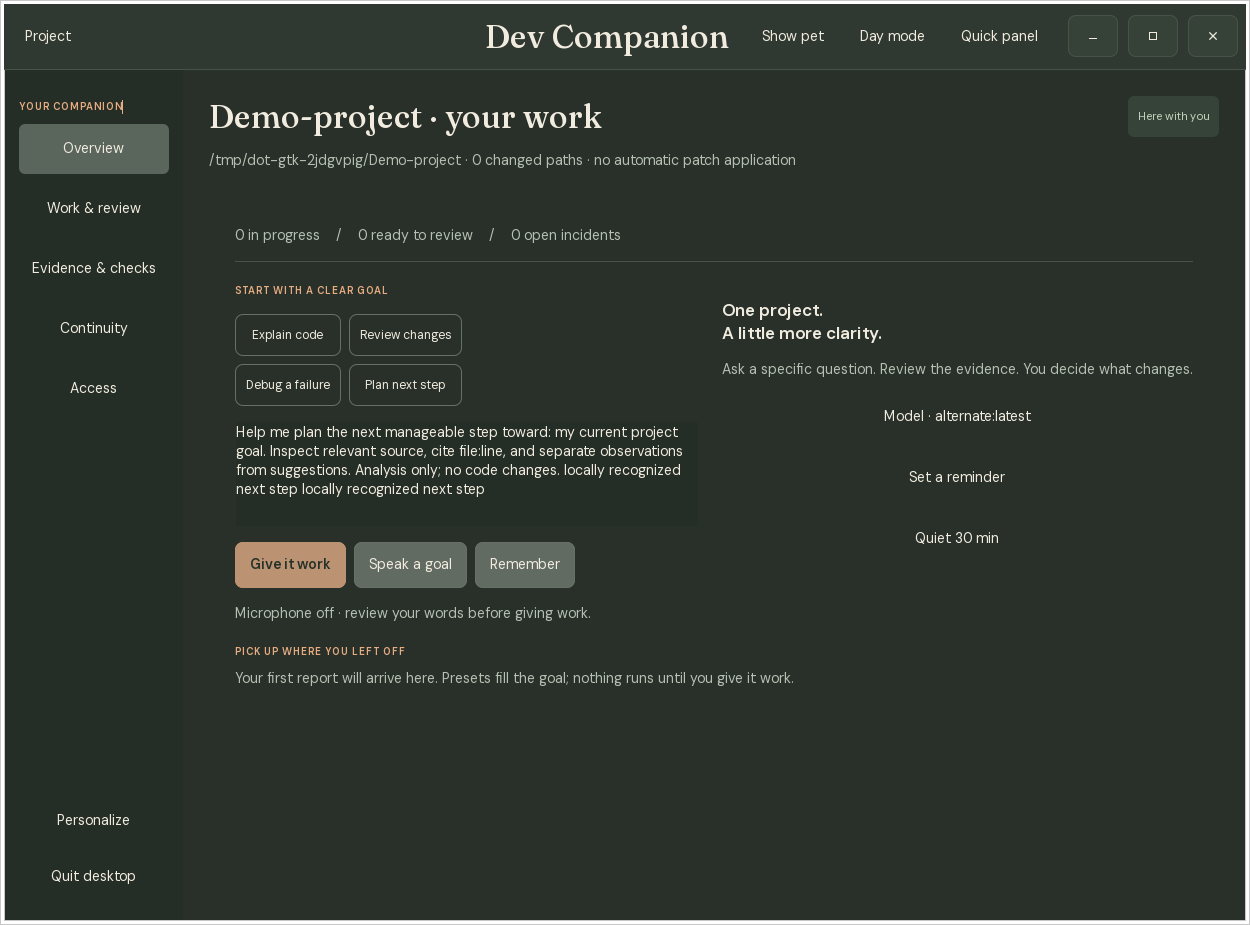
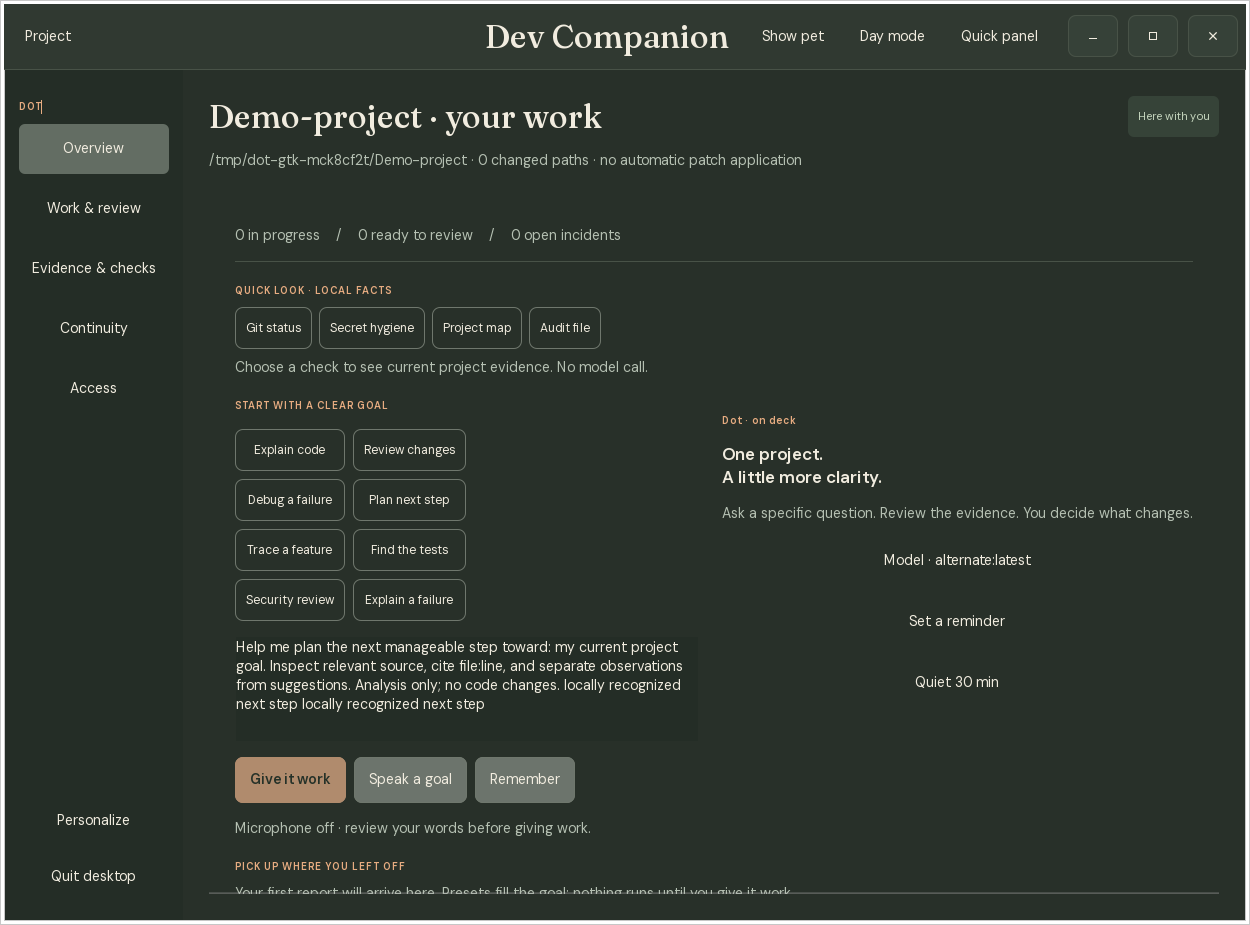
Present 0.8.2 quiet companion preview

diff --git a/guide.html b/guide.html
@@ -4,15 +4,15 @@
 <meta name="description" content="Set up the Linux developer workflow preview: project presence, real error evidence, reviewed corrections, optional editor diagnostics and local voice.">
 <link rel="icon" href="./favicon.svg"><link rel="stylesheet" href="./fonts.css"><link rel="stylesheet" href="./style.css"></head>
 <body><a class="skip" href="#main">Skip to content</a><header class="nav wrap"><a class="brand" href="./">Dev Companion</a><nav aria-label="Main navigation"><a class="nav-cta" href="./">Back to the project ↗</a></nav></header>
-<main id="main" class="guide wrap"><p class="eyebrow">PREVIEW 0.8.1 · WORKFLOW GUIDE</p>
+<main id="main" class="guide wrap"><p class="eyebrow">PREVIEW 0.8.2 · WORKFLOW GUIDE</p>
 <h1>Your local companion,<br>close to the work.</h1>
 <p>An early Linux x86_64 workflow preview for existing Git projects. Each project, terminal session and editor workspace requires explicit enablement. A local model is needed for conversation and proposed corrections; the work desk and reminders work without inference. macOS validation is pending.</p>
 <h2 id="install">1. Verify and install the CLI</h2>
-<p>Download the archive and SHA256SUMS from the <a href="https://github.com/ashuujha/devcompanion-launch/releases/tag/v0.8.1">v0.8.1 release page</a>, then verify the downloaded archive and install:</p>
+<p>Download the archive and SHA256SUMS from the <a href="https://github.com/ashuujha/devcompanion-launch/releases/tag/v0.8.2">v0.8.2 release page</a>, then verify the downloaded archive and install:</p>
 <pre><code>sha256sum --check --ignore-missing SHA256SUMS
-tar -xzf devcompanion-0.8.1-linux-x86_64.tar.gz
+tar -xzf devcompanion-0.8.2-linux-x86_64.tar.gz
 mkdir -p "$HOME/.local/bin"
-install -m 755 devcompanion-0.8.1/devcompanion "$HOME/.local/bin/devcompanion"
+install -m 755 devcompanion-0.8.2/devcompanion "$HOME/.local/bin/devcompanion"
 export PATH="$HOME/.local/bin:$PATH"
 ln -s devcompanion "$HOME/.local/bin/dot"
 dot --version</code></pre>
@@ -20,10 +20,10 @@ dot --version</code></pre>
 <pre><code>dot update --check
 dot update
 # A previously downloaded official archive can be used offline:
-dot update --from-archive /path/devcompanion-0.8.1-linux-x86_64.tar.gz --checksum /path/SHA256SUMS</code></pre>
+dot update --from-archive /path/devcompanion-0.8.2-linux-x86_64.tar.gz --checksum /path/SHA256SUMS</code></pre>
 <p>The explicit updater uses GitHub HTTPS, verifies the published checksum and archive layout, and replaces the installed binary atomically. It preserves memory, models and the alias, retains one previous executable and restarts a matching managed presence unit. Open chats finish with their original binary; quit and reopen to load the update. Checksums are consistency checks, not independent release signatures.</p>
 <p>Version 0.4 and earlier lack this command. After verifying the 0.6 archive, bootstrap once:</p>
-<pre><code>install -m 755 devcompanion-0.8.1/devcompanion "$HOME/.local/bin/devcompanion.new"
+<pre><code>install -m 755 devcompanion-0.8.2/devcompanion "$HOME/.local/bin/devcompanion.new"
 mv "$HOME/.local/bin/devcompanion.new" "$HOME/.local/bin/devcompanion"
 dot --version
 # Only if login presence is installed:
@@ -58,12 +58,13 @@ dot desktop
 # Optional launcher and graphical login presence:
 dot desktop install --login</code></pre>
 <p>The native Linux desktop uses system Python 3, PyGObject, GTK 3 and an SVG loader. On Ubuntu/Debian, missing components can be installed with <code>sudo apt install python3-gi gir1.2-gtk-3.0 librsvg2-common</code>. The CLI works without the optional desktop dependencies.</p>
-<p>Click the dot to open the quick panel; drag to move; right-click for quiet, work desk or Quit desktop. Version 0.8.1 prefers X11/XWayland before loading GTK when available, preserving an explicit display preference. <code>dot desktop check</code> reports the selected backend. GNOME/XWayland honored keep-above in the maker test; placement and keep-above vary by window manager. The Project button selects a Git workspace and asks for first-use consent. Every goal, incident, task, patch and check shares the existing local ledger.</p>
-<p>The quick panel and work desk share a goal draft. Explain code, Review changes, Debug a failure and Plan next step fill that draft without submitting it. The model selector shows downloaded local completion models and saves the choice for future work. Personalize offers pixel or soft artwork, color, name, response style and 16 original characters. Hide pet removes character artwork from the display while keeping project work accessible. The default off-white/black theme has a saved night mode; switch with the work desk header, quick panel, dot menu or Ctrl+Shift+N in a focused companion window. A visible pet smiles and moves briefly on hover, then rests when the pointer leaves. GTK's reduced-animation setting disables the motion timer.</p>
+<p>Click the dot to open the quick panel; drag to move; right-click for quiet, work desk or Quit desktop. Version 0.8.2 prefers X11/XWayland before loading GTK when available, preserving an explicit display preference. <code>dot desktop check</code> reports the selected backend. GNOME/XWayland honored keep-above in the maker test; placement and keep-above vary by window manager. The Project button selects a Git workspace and asks for first-use consent. Every goal, incident, task, patch and check shares the existing local ledger.</p>
+<p>The quick panel and work desk share a goal draft. Eight starters cover source explanation, change review, debugging, feature tracing, relevant tests, security review and planning; selecting one fills the draft without submitting work. Git status, Secret hygiene, Project map and Audit file are explicit local quick looks. The hygiene action uses the installed local detector and shows redacted known-pattern findings. The project map offers bounded file/line navigation leads, not a claim of full understanding. Audit file previews a bounded status inventory and saves only to a new filename you choose; it is not a full code or security audit.</p>
+<p>The model selector shows downloaded local completion models and saves the choice for future work. Personalize offers pixel or soft artwork, color, name, response style, 16 original characters, a saved 72–176 px size and Off/Gentle/Playful motion. Hide pet removes the character from display while keeping work accessible. The off-white/black theme has a saved night mode; switch with the desk header, quick panel, dot menu or Ctrl+Shift+N in a focused window. Hover makes a visible pet smile and follow nearby pointer movement. Gentle mode shows a sleepy expression after four idle minutes. Playful adds rare brief edge strolls only when the panel and desk are closed. GTK's reduced-animation setting suppresses motion; pet activity never starts a model request.</p>
 <p>Give companion work starts a persistent investigation. Close the panel while it works; open returned work to inspect original errors, recorded model interpretation, actual source ranges and their freshness, and the diff. Applying the current displayed patch and running a named check are separate approvals. The check dialog shows the exact argument array. Cancel, retry, revision and guarded rollback remain available. Continuity shows saved outcomes without generating a new recap. A stopped worker is shown as needing attention.</p>
 <p>After local voice setup, Speak a goal records one visible turn. Hold Ctrl+Alt+Space in the focused companion window and release it to finish, or press Esc to cancel. Personalize can request a session-only global shortcut through the desktop permission dialog. Recognized words join the goal draft for review; they never approve actions. Read report aloud uses local speech. Physical microphone and shortcut comfort still need hands-on trials.</p>
 <p><code>dot desktop install</code> adds just the application launcher; <code>--login</code> also adds a login entry that starts only the dot, keeping the panel closed. Click the dot when needed. <code>dot desktop uninstall</code> removes only managed entries and retains data. Closing the desktop does not cancel accepted tasks. Quiet suppresses interruptions while work can continue. The separate presence service and permitted adapters provide background events.</p>
-<p>Source analysis requires actual reads; explicit related-test requests require a range covering the selected test anchor. Source navigation is bounded to supported project text, not complete repository understanding. Large sources up to 256 KiB can be read; edits retain the small-file scope. Explicit analysis-only work rejects patch proposals. The real Offline-GPT evaluation read the actual resolver and related tests, but its local-model explanation still misstated test coverage and lacked usable citations. That result is marked unverified. Larger-project correctness remains unproven.</p>
+<p>Source analysis requires actual reads; explicit related-test requests require a range covering the selected test anchor. Source navigation is bounded to supported project text, not complete repository understanding. Large sources up to 256 KiB can be read; edits retain the small-file scope. Explicit analysis-only work rejects patch proposals. On the pinned Offline-GPT checkout, the newer project map placed the automation runner and its test among the first two of 16 candidates after an earlier map missed both. The retained local-model explanation still misstated test coverage and lacked usable citations; that result remains unverified. Larger-project correctness remains unproven.</p>
 <p>The static candidate and bundled GTK interface passed a network-isolated maker journey after setup, including real local-model source analysis; external connectivity was unavailable. The graphical patch/check journey used a controlled model. These are technical evaluations, not independent daily-use trials.</p>
 <h2 id="proactive">Background investigation, with a separate opt-in</h2>
 <pre><code>dot proactive enable
@@ -114,7 +115,7 @@ dot route --category explain</code></pre>
 <p>Inspect each actual response before rating. Comparisons record total time, time to first text and actual prompt/output counts when Ollama provides them. Routing suggests the fastest latest response rated useful for the latest identical task, current code/context/settings and unchanged model digest. Add <code>--apply</code> to save the suggestion. It does not infer quality for other tasks or switch automatically. Loading, order and caches affect timings; these are local observations, not standardized benchmarks.</p>
 <p>CPU/auto, context, reply/task token caps, model retention and proactive cooldown are explicit controls. Lower limits can reduce context coverage and answer quality. The default requests ten-minute model retention; Ollama may unload under pressure. <code>models --task TEXT</code> gives model-generated advice; measured <code>route</code> has a separate evidence requirement.</p>
 <h2 id="editor">7. Optional VS Code diagnostics</h2>
-<p>Download <a href="https://github.com/ashuujha/devcompanion-launch/releases/download/v0.8.1/dot-developer-companion-0.1.0.vsix">dot-developer-companion-0.1.0.vsix</a>, then run <code>code --install-extension dot-developer-companion-0.1.0.vsix</code>. Open a trusted workspace in an initialized Git project and choose <strong>Dot: Enable Editor Diagnostics for Workspace</strong> from the VS Code command palette. Disable it there when finished. The extension sends bounded diagnostic messages, file paths, lines, severity and saved state; it sends no source buffers. VS Code must be open to provide diagnostics. A diagnostic can clear without a compiler or named check passing.</p>
+<p>Download <a href="https://github.com/ashuujha/devcompanion-launch/releases/download/v0.8.2/dot-developer-companion-0.1.0.vsix">dot-developer-companion-0.1.0.vsix</a>, then run <code>code --install-extension dot-developer-companion-0.1.0.vsix</code>. Open a trusted workspace in an initialized Git project and choose <strong>Dot: Enable Editor Diagnostics for Workspace</strong> from the VS Code command palette. Disable it there when finished. The extension sends bounded diagnostic messages, file paths, lines, severity and saved state; it sends no source buffers. VS Code must be open to provide diagnostics. A diagnostic can clear without a compiler or named check passing.</p>
 <h2 id="voice">8. Optional local voice</h2>
 <p><code>dot voice setup</code> installs local English Whisper/Piper once. <code>dot voice status</code> reports readiness. <code>/voice</code> or <code>dot voice chat</code> opens voice mode: the first turn records, then <strong>Enter</strong> records each follow-up. Enter also finishes a recording early. <strong>q + Enter</strong>, “exit voice”, “stop listening”, or <strong>Ctrl+C</strong> ends the session. <code>/voice once</code> or <code>dot voice ask --once</code> records one turn; <code>--audio question.wav</code> uses a file.</p>
 <p><code>dot voice chat --continuous</code> or <code>/voice continuous</code> listens again after replies until exit. The microphone pauses during transcription, reasoning and playback. A simple energy gate skips silence; noisy rooms still need care. It is turn-based speech, with no wake word or interruption during playback. Windows default to 12 seconds (maximum 30); recording stays off outside explicitly opened voice mode. Tests cover two turns, silence and microphone-child cancellation using controlled audio tools. Physical microphone selection, room noise and playback comfort still need hands-on validation.</p>

diff --git a/index.html b/index.html
@@ -54,9 +54,18 @@
     </div>
   </div>
 </section>
-<section class="desktop-preview wrap" aria-labelledby="desktop-title"><div class="section-intro"><p class="eyebrow">A PLACE FOR THE WORK</p><h2 id="desktop-title">A little presence.<br>Work you can inspect.</h2><p>Open the dot, choose a goal preset or speak one, then review the actual sources, proposed changes and separately approved checks. Personalize 16 original characters, select a downloaded local model, or hide the pet. The off-white desk has a saved night theme, and each visible pet smiles and moves briefly on hover. The desktop and terminal share one local ledger.</p></div><div class="desktop-shots"><figure><img src="./desktop-panel.png" alt="Native companion quick panel with selected project, returned work, goal composer and local microphone control" loading="lazy"><figcaption>Your project's quick panel.</figcaption></figure><figure><img src="./desktop-work.png" alt="Off-white native work desk showing a recorded report, inspected source ranges, their freshness and a proposed diff" loading="lazy"><figcaption>Review the evidence and diff before approving.</figcaption></figure></div><p class="fine">Actual v0.8.1 GTK interface in a disposable project with a controlled model. <a href="./desktop-night.png">See the night theme ↗</a> These screens illustrate the review flow, not model quality. <a href="./guide.html#desktop">Desktop setup and limits ↗</a></p></section>
+<section class="desktop-preview wrap" aria-labelledby="desktop-title">
+  <div class="section-intro"><p class="eyebrow">A PLACE FOR THE WORK</p><h2 id="desktop-title">A little presence.<br>Work you can inspect.</h2><p>Choose a goal, see current project facts, and review the source and checks behind any proposed change. The quick panel, work desk and terminal use one local ledger.</p></div>
+  <div class="desktop-features">
+    <article><span>01 · PERSONAL</span><h3>Your small companion</h3><p>Pick from 16 original characters. Name it, resize it, choose pixel or soft art, or hide it altogether.</p></article>
+    <article><span>02 · AT YOUR PACE</span><h3>Quiet little moments</h3><p>It smiles and follows the cursor nearby. Gentle mode rests after idle time; optional Playful mode takes rare short strolls. Motion can be off.</p></article>
+    <article><span>03 · USEFUL FIRST</span><h3>One-click project facts</h3><p>Check Git status, run redacted secret hygiene, find relevant source paths, or preview a Markdown project audit. These actions do not ask the model.</p></article>
+  </div>
+  <div class="desktop-shots"><figure><img src="./desktop-panel.png" alt="Native companion quick panel with selected project, returned work and goal composer" loading="lazy"><figcaption>Your project's quick panel.</figcaption></figure><figure><img src="./desktop-work.png" alt="Off-white native work desk showing a report, inspected source ranges and a proposed diff" loading="lazy"><figcaption>Review evidence before approving.</figcaption></figure><figure class="wide"><img src="./desktop-quick-look.png" alt="Native work desk showing Git status, project facts, eight goal drafts and a pixel cat" loading="lazy"><figcaption>Quick local facts and a companion that stays out of your way.</figcaption></figure></div>
+  <p class="fine">Actual v0.8.2 GTK interface in a disposable project with a controlled model. <a href="./desktop-night.png">See the night theme ↗</a> These screens illustrate the workflow, not model quality. <a href="./guide.html#desktop">Desktop setup and limits ↗</a></p>
+</section>
 <section id="local" class="local-section" aria-labelledby="local-title"><div class="wrap local-grid"><div><p class="eyebrow">ON YOUR MACHINE</p><h2 id="local-title">Your project.<br>Your model.<br>Your memory.</h2><p>Download the runtime and model once. Conversation, memory and project awareness then work offline.</p><a class="text-link" href="./guide.html#privacy">See the data boundaries <span aria-hidden="true">↗</span></a></div><div class="local-facts"><article><span>01</span><h3>Local inference</h3><p>A downloaded Ollama model, accessed through loopback HTTP. No silent cloud fallback.</p></article><article><span>02</span><h3>Scoped awareness + publishing guard</h3><p>Initialize each Git project; enable background presence separately. Terminal capture and editor diagnostics each require their own consent. Enable local commit/push checks with <code>dot guard enable</code>.</p></article><article><span>03</span><h3>Persistent local memory</h3><p>A SQLite work desk on your machine. Inspect incidents, reminders and decisions; export a project or back up your private database.</p></article><article><span>04</span><h3>Free preview</h3><p>No subscription or usage collection. The application source is currently private; this is an early binary release.</p></article></div></div></section>
-<section id="start" class="start wrap" aria-labelledby="start-title"><div class="section-intro"><p class="eyebrow">FIRST SESSION</p><h2 id="start-title">Give your work a companion.</h2><p>This early workflow preview supports Linux x86_64. A downloaded local model is needed for conversation and proposed corrections; incident recording and reminders work without inference.</p></div><div class="start-grid"><div class="download-card"><span class="release-label">PREVIEW 0.8.1</span><h3>Download for Linux</h3><p>A local developer companion with a native Linux desktop and CLI. GTK/Python enable the optional desktop; Ollama supplies downloaded local models. The VS Code adapter is separate.</p><a class="button" href="https://github.com/ashuujha/devcompanion-launch/releases/download/v0.8.1/devcompanion-0.8.1-linux-x86_64.tar.gz">Download preview <span aria-hidden="true">↓</span></a><a class="text-link small-link" href="https://github.com/ashuujha/devcompanion-launch/releases/tag/v0.8.1">Checksums & release notes ↗</a><p class="fine">Read <a href="./guide.html">setup and known limits</a> before your first session. <a href="./demo.txt">See a recorded workflow.</a></p></div><div class="setup-card"><div class="setup-title"><span>AFTER CLI & MODEL SETUP</span><button class="copy" data-copy="setup" aria-label="Copy first session commands">Copy commands</button></div><p>Complete the <a href="./guide.html">CLI and local model setup</a>, then open a terminal in the existing Git project you want help with:</p><pre id="setup"><code>dot setup --check
+<section id="start" class="start wrap" aria-labelledby="start-title"><div class="section-intro"><p class="eyebrow">FIRST SESSION</p><h2 id="start-title">Give your work a companion.</h2><p>This early workflow preview supports Linux x86_64. A downloaded local model is needed for conversation and proposed corrections; incident recording and reminders work without inference.</p></div><div class="start-grid"><div class="download-card"><span class="release-label">PREVIEW 0.8.2</span><h3>Download for Linux</h3><p>A local developer companion with a native Linux desktop and CLI. GTK/Python enable the optional desktop; Ollama supplies downloaded local models. The VS Code adapter is separate.</p><a class="button" href="https://github.com/ashuujha/devcompanion-launch/releases/download/v0.8.2/devcompanion-0.8.2-linux-x86_64.tar.gz">Download preview <span aria-hidden="true">↓</span></a><a class="text-link small-link" href="https://github.com/ashuujha/devcompanion-launch/releases/tag/v0.8.2">Checksums & release notes ↗</a><p class="fine">Read <a href="./guide.html">setup and known limits</a> before your first session. <a href="./demo.txt">See a recorded workflow.</a></p></div><div class="setup-card"><div class="setup-title"><span>AFTER CLI & MODEL SETUP</span><button class="copy" data-copy="setup" aria-label="Copy first session commands">Copy commands</button></div><p>Complete the <a href="./guide.html">CLI and local model setup</a>, then open a terminal in the existing Git project you want help with:</p><pre id="setup"><code>dot setup --check
 dot setup --yes --presence --proactive --goal "Finish the current bug fix"
 dot desktop
 # For terminal work you want captured, use a separate session:

diff --git a/style.css b/style.css
@@ -7,3 +7,4 @@
 .terminal-identity{display:flex;align-items:center;gap:18px;margin-bottom:18px}.terminal-identity p{margin:0}.terminal-pet{flex-shrink:0;image-rendering:pixelated;object-fit:contain}.pet-preview{margin:24px 0}.pet-preview summary{cursor:pointer;font-weight:600}.pet-preview img{display:block;max-width:100%;height:auto;margin-top:16px;border-radius:6px}
 
 .desktop-preview{padding-top:80px;padding-bottom:80px}.desktop-shots{display:grid;grid-template-columns:minmax(0,.65fr) minmax(0,1fr);gap:24px;align-items:start}.desktop-shots figure{margin:0}.desktop-shots img{display:block;width:100%;height:auto;border:1px solid #d8d3cb;border-radius:14px}.desktop-shots figcaption{padding-top:12px;color:#555f58;font-size:14px}@media(max-width:720px){.desktop-shots{grid-template-columns:1fr}.desktop-preview{padding-top:48px;padding-bottom:48px}}
+.desktop-features{display:grid;grid-template-columns:repeat(3,minmax(0,1fr));gap:15px;margin:32px 0 30px}.desktop-features article{background:var(--white);border:1px solid var(--line);border-radius:12px;padding:22px}.desktop-features span{font-size:9px;letter-spacing:1.2px;color:var(--accent);font-weight:700}.desktop-features h3{font-size:19px;font-weight:500;letter-spacing:-.6px;margin:14px 0 9px}.desktop-features p{color:var(--muted);font-size:12px;line-height:1.7;margin:0}.desktop-shots .wide{grid-column:1/-1}.desktop-shots .wide img{max-width:970px;margin:auto}.desktop-shots .wide figcaption{text-align:center}.terminal-pet{transition:transform .2s ease}.terminal-pet:hover{transform:translateY(-5px) rotate(-4deg)}@media(max-width:760px){.desktop-features{grid-template-columns:1fr;gap:10px}.desktop-shots .wide{grid-column:auto}}@media(prefers-reduced-motion:reduce){.terminal-pet{transition:none}.terminal-pet:hover{transform:none}}

diff --git a/README.md b/README.md
@@ -8,11 +8,11 @@ can request a small correction for review. Reminders and
 focus breaks remain available between conversations. The pet and companion name
 are optional ways to make it feel familiar; the same local work ledger carries the context.
 
-**v0.8.1 workflow preview for Linux x86_64.** This repository contains public
+**v0.8.2 workflow preview for Linux x86_64.** This repository contains public
 launch assets, feedback templates and binary releases. The application source
 is currently private.
 
-- [Download, checksums and release notes](https://github.com/ashuujha/devcompanion-launch/releases/tag/v0.8.1)
+- [Download, checksums and release notes](https://github.com/ashuujha/devcompanion-launch/releases/tag/v0.8.2)
 - [Setup, update and privacy guide](https://ashuujha.github.io/devcompanion-launch/guide.html)
 - [Recorded v0.5 local-model workflow](https://ashuujha.github.io/devcompanion-launch/demo.txt)
 - [Join the first developer trials](https://github.com/ashuujha/devcompanion-launch/issues/1)
@@ -25,11 +25,14 @@ desk share the existing engine. Give it project work, dismiss the panel, then re
 the actual source ranges, model report and proposed diff. Application and named
 checks require separate approvals. The same goals, task IDs and outcomes remain
 available in the CLI. Source-analysis requests need real reads; explicit
-analysis-only tasks reject edits. The desk now has an off-white/black day theme
-and a saved forest night theme. It also has original pixel companions, starter
-prompts, a local model picker, a hide control and an optional push-to-talk
-shortcut. The selected pet smiles and moves briefly on hover. Larger-project
-model accuracy remains unproven.
+analysis-only tasks reject edits. The desk has an off-white/black day theme and
+a saved forest night theme. Eight goal drafts and four local quick looks expose
+Git status, redacted secret hygiene, project paths and a previewable audit file.
+The original pixel/soft companions can be named, resized or hidden. Gentle mode
+rests after idle time; optional Playful mode adds rare short strolls. Hover
+smiles and follows nearby pointer movement. Motion can be off. The downloaded
+local model picker and optional push-to-talk shortcut remain available.
+Larger-project model accuracy remains unproven.
 
 ```sh
 # After binary/local-model setup, in your chosen Git project:
@@ -48,19 +51,22 @@ an optional session shortcut through the desktop permission dialog. Hide pet
 removes its visible character and the panel can show it again. The model picker
 lists downloaded local completion models; switching does not rewrite existing
 tasks. Switch day/night with the desk header button or focused Ctrl+Shift+N.
+Resize the pet in Personalize, with Ctrl+scroll over it, or from the dot menu.
 Physical voice and global shortcut comfort still need people to try them.
 
 ![Native companion quick panel in a controlled-model fixture](desktop-panel.png)
 
-The picture is an actual v0.8.1 GTK interface with a controlled model; it demonstrates
+The picture is an actual v0.8.2 GTK interface with a controlled model; it demonstrates
 the review workflow, not inference quality. A real local-model evaluation on the
 larger Offline-GPT repository retained an incorrect test interpretation and
-ended with an explicitly unverified result. Independent everyday usefulness
+ended with an explicitly unverified result. Project navigation now finds that
+runner and its test in the large checkout, while correct model interpretation
+remains open. Independent everyday usefulness
 and retention remain unmeasured.
 
 ## Start with a real project
 
-Verify and install the [Linux archive](https://github.com/ashuujha/devcompanion-launch/releases/download/v0.8.1/devcompanion-0.8.1-linux-x86_64.tar.gz)
+Verify and install the [Linux archive](https://github.com/ashuujha/devcompanion-launch/releases/download/v0.8.2/devcompanion-0.8.2-linux-x86_64.tar.gz)
 using the guide. Ollama and a downloaded local model are needed for conversation
 and proposed corrections; reminders and incident recording work without inference. Background model
 investigation requires `proactive enable`. In an existing Git repository:
@@ -79,7 +85,7 @@ background observation for this project; `dot presence uninstall` removes the
 login service. Both require your explicit action.
 
 For VS Code, download the optional
-[diagnostics extension](https://github.com/ashuujha/devcompanion-launch/releases/download/v0.8.1/dot-developer-companion-0.1.0.vsix),
+[diagnostics extension](https://github.com/ashuujha/devcompanion-launch/releases/download/v0.8.2/dot-developer-companion-0.1.0.vsix),
 install it with `code --install-extension dot-developer-companion-0.1.0.vsix`,
 trust the workspace and run **Dot: Enable Editor Diagnostics for Workspace**.
 The editor must be open to supply diagnostics. The extension sends bounded
